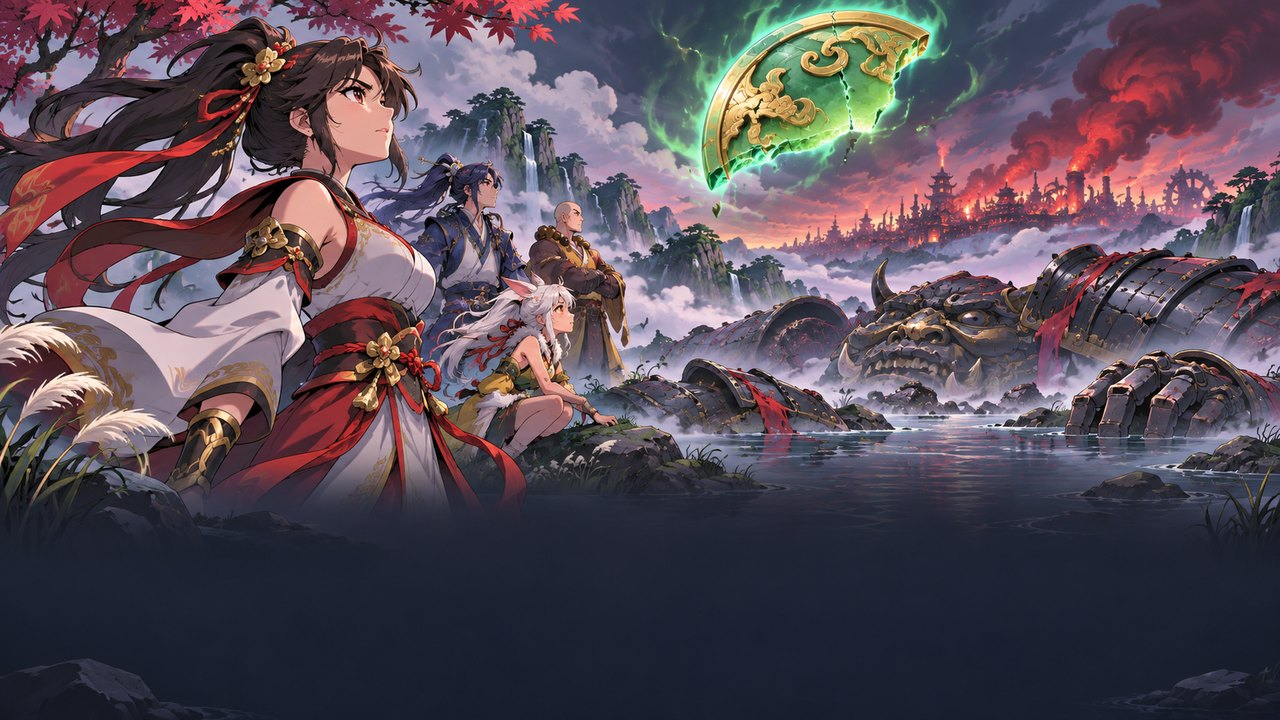
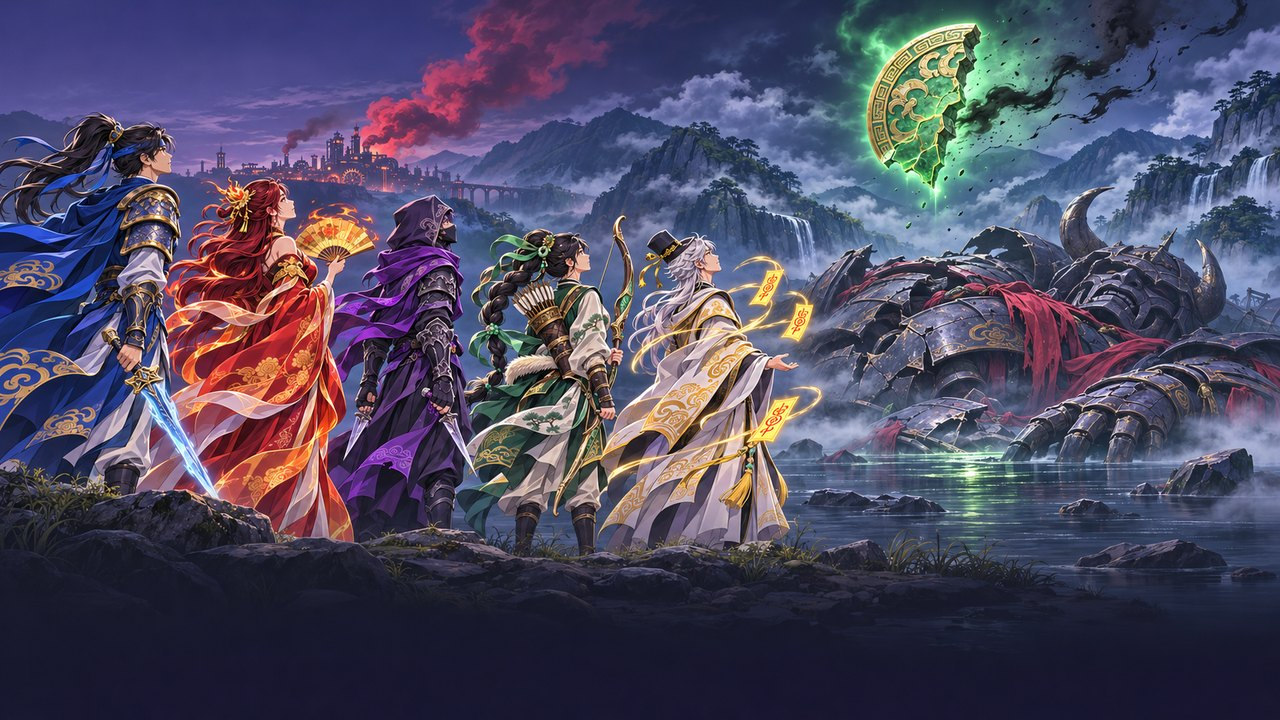
fix: 서장·1장·2장 컷신의 천명사를 정식 캐스트로 다시 그림 (v1.8.1) (#20)
컷신 스틸 3장에 플레이 캐릭터가 아닌 인물(민머리 스님, 여우 귀 야생 소녀,
보라 옷 여성, 검을 든 붉은 옷 여성)이 그려져 있어 타이틀·인게임과 맞지 않았다.
초상화·타이틀 키 아트를 참고 그림으로 붙여 Codex로 다시 그리고,
다섯 천명사(윤·려화·무영·소율·해랑)가 디자인대로 나오는 안을 골랐다.
3장 이후 스틸은 보스·NPC 장면이라 인게임 그림과 이미 일치해 그대로 둔다.

diff --git a/README.md b/README.md
@@ -10,7 +10,7 @@
 
 <a href="https://jeiel85.github.io/celestial-blades/"><img src="https://img.shields.io/badge/%E2%96%B6%20%EC%A7%80%EA%B8%88%20%ED%94%8C%EB%A0%88%EC%9D%B4-PLAY%20NOW-ffd75e?style=for-the-badge&labelColor=2a1404" alt="지금 플레이"></a>
 
-<img src="https://img.shields.io/badge/version-1.8.0-a06bff?style=flat-square" alt="version">
+<img src="https://img.shields.io/badge/version-1.8.1-a06bff?style=flat-square" alt="version">
 <img src="https://img.shields.io/badge/Phaser-3.80-8fd3ff?style=flat-square" alt="Phaser">
 <img src="https://img.shields.io/badge/TypeScript-strict-3178c6?style=flat-square&logo=typescript&logoColor=white" alt="TypeScript">
 <img src="https://img.shields.io/badge/Vite-5-646cff?style=flat-square&logo=vite&logoColor=white" alt="Vite">
